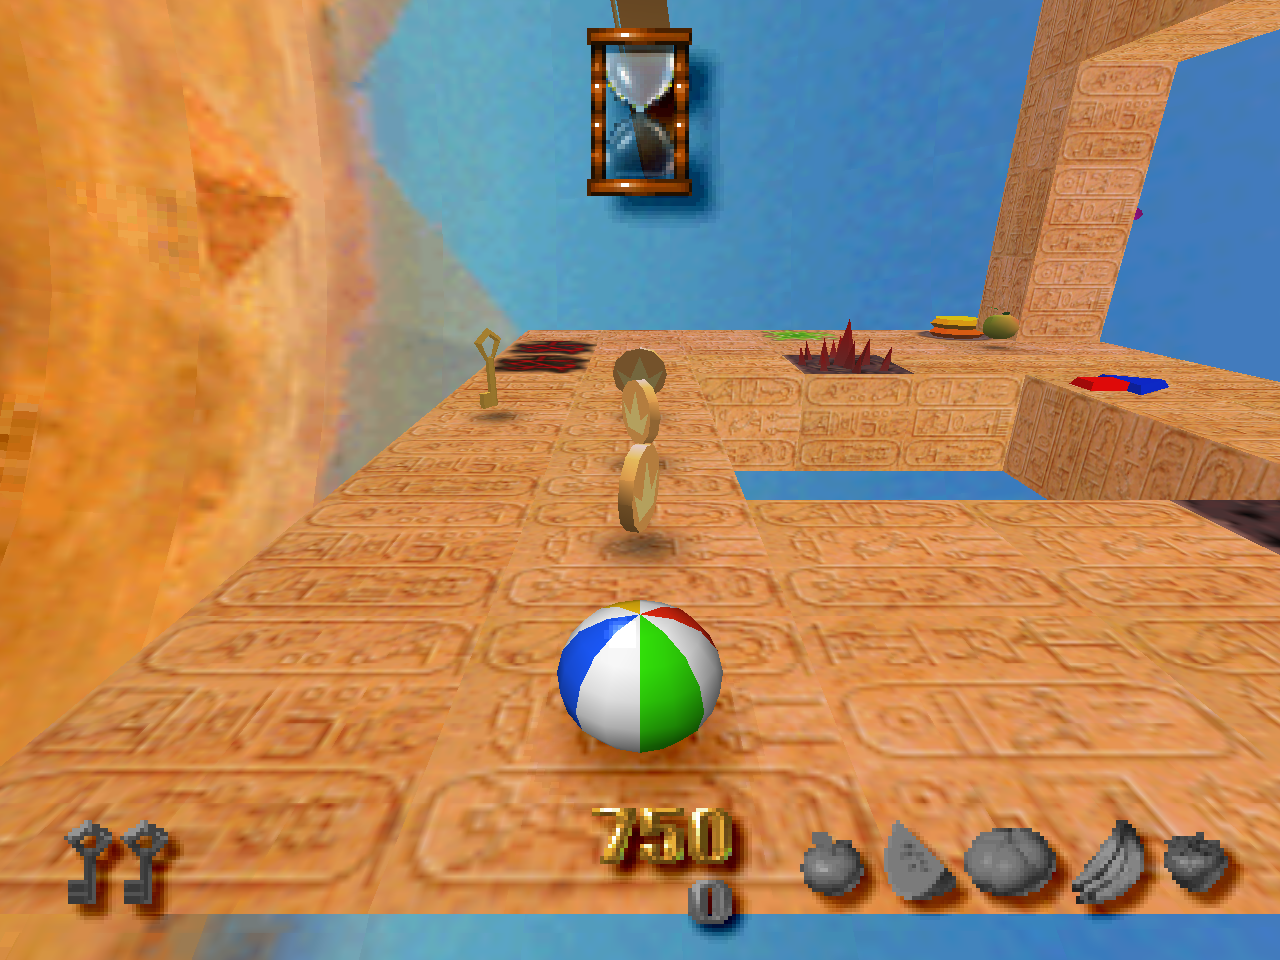
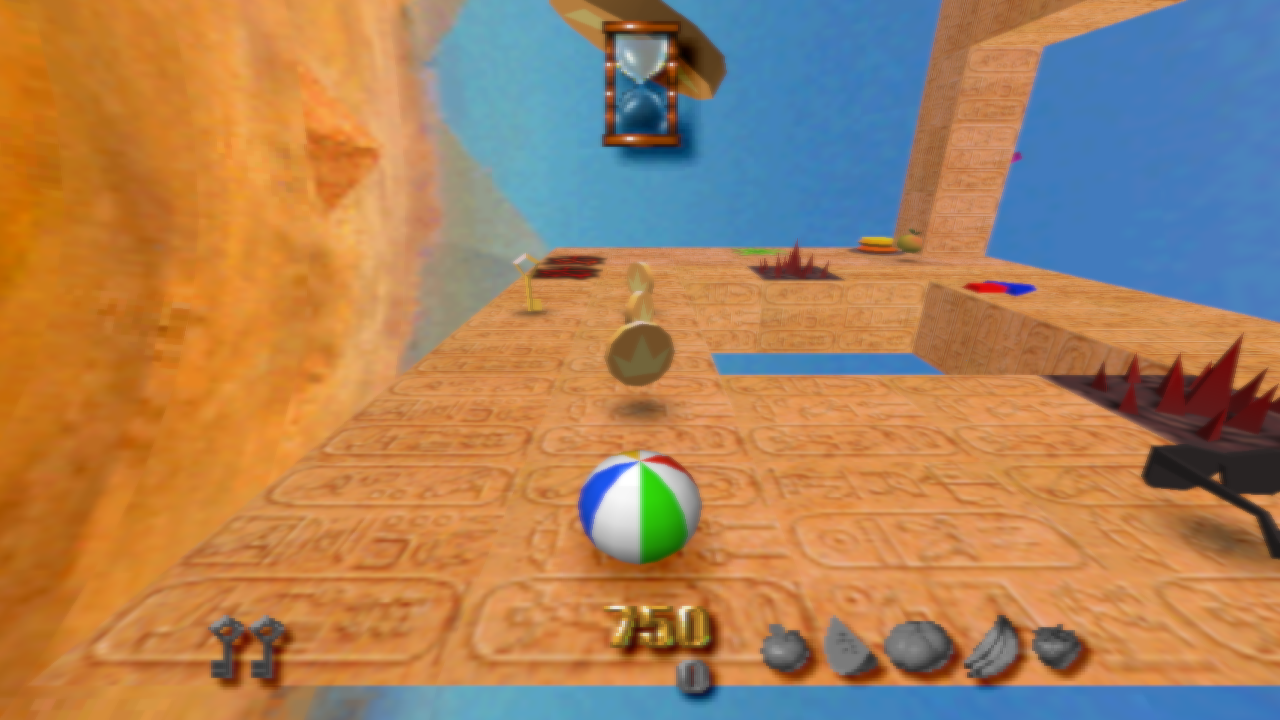
README: the game's pictures in widescreen
The intro, the three title screens, a stage, the pause menu and the own
level, taken from the game's window at 1280 x 720 in the 16:9 widescreen
mode with the soft-TV filter (tests/game_shots.py).

diff --git a/source/tests/game_shots.py b/source/tests/game_shots.py
@@ -1,0 +1,63 @@
+#!/usr/bin/env python3
+"""Pictures of the game's window (what the player sees: the picture filter,
+widescreen, the pause menu), e.g. for the README.
+
+    python tests/game_shots.py <out_dir> <first second> <last second> [VAR=value ...] [ini:key=value ...]
+
+The game starts at once (RA_AUTOSTART) with the environment given (RA_INPUT,
+RA_DISC, RA_LEVEL ...); its window is captured every half second from the
+first to the last second into <out_dir>/win_<seconds>.png.  ini:key=value
+changes settings.ini for the run (put back afterwards).
+"""
+import os
+import re
+import shutil
+import subprocess
+import sys
+import time
+
+from testlib import EXE, close, find_window
+from window_shot import grab
+import images
+
+
+def main():
+    out = os.path.abspath(sys.argv[1])
+    first, last = float(sys.argv[2]), float(sys.argv[3])
+    env = dict(os.environ, RA_AUTOSTART='1', RA_MUTE='1')
+    ini_changes = {}
+    for arg in sys.argv[4:]:
+        key, value = arg.split('=', 1)
+        if key.startswith('ini:'):
+            ini_changes[key[4:]] = value
+        else:
+            env[key] = value
+    os.makedirs(out, exist_ok=True)
+    ini = os.path.join(os.path.dirname(EXE), 'settings.ini')
+    shutil.copy(ini, ini + '.shots')
+    try:
+        text = open(ini, encoding='utf-8').read()
+        for key, value in ini_changes.items():
+            text = re.sub(r'(?m)^%s = .*$' % re.escape(key), '%s = %s' % (key, value), text)
+        open(ini, 'w', encoding='utf-8').write(text)
+        proc = subprocess.Popen([EXE], cwd=out, env=env)
+        start = time.time()
+        try:
+            t = first
+            while t <= last:
+                time.sleep(max(0, start + t - time.time()))
+                hwnd = find_window(proc.pid)
+                if hwnd:
+                    w, h, rows = grab(hwnd)
+                    images.write_png(os.path.join(out, 'win_%05.1f.png' % t), w, h, rows)
+                t += 0.5
+        finally:
+            close(proc)
+    finally:
+        shutil.copy(ini + '.shots', ini)
+        os.remove(ini + '.shots')
+    print(out)
+
+
+if __name__ == '__main__':
+    main()

diff --git a/source/README.md b/source/README.md
@@ -100,6 +100,10 @@ använda medan de körs.
   (`tools/emulator/duckstation`, BIOS `scph5502.bin` i projektroten) med
   differensbilder.
 - `python tests/window_shot.py build/test/launcher.png`: launcherns fönster.
+- `python tests/game_shots.py <mapp> <från s> <till s> [RA_...=…] [ini:nyckel=värde]`:
+  spelets fönster (filter, widescreen, pausmenyn) varje halv sekund,
+  t.ex. README-bilderna (`ini:window_mode=0 ini:window_width=1280
+  ini:window_height=720 ini:aspect=2`).
 - `python tests/editor_shot.py <ut.png> [bana]` och
   `python tests/editor_drive.py [bana] "click X Y; drag …; key 1; shot ut.png"`:
   baneditorns fönster, styrt med fönstermeddelanden.

diff --git a/README.md b/README.md
@@ -62,8 +62,9 @@ All releases are on the [Releases page](https://github.com/Bitsandbreakpoints/ro
 ![The pause menu](images/pause-menu.png)
 
 *In-game pictures: Roll Away, Kula World and KulaQuest running in this port
-(4× internal resolution; the first ones with the soft-TV filter). The game's
-pictures shown here are © their respective owners.*
+(4× internal resolution, 16:9 widescreen, the soft-TV filter; the movies
+keep their 4:3). The game's pictures shown here are © their respective
+owners.*
 
 ## Disclaimer
 
